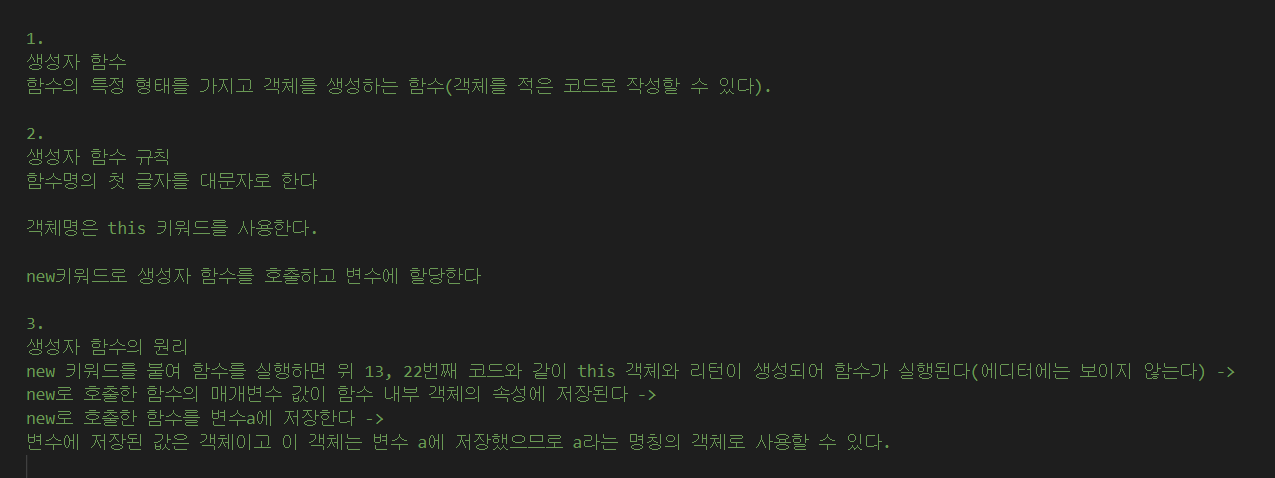
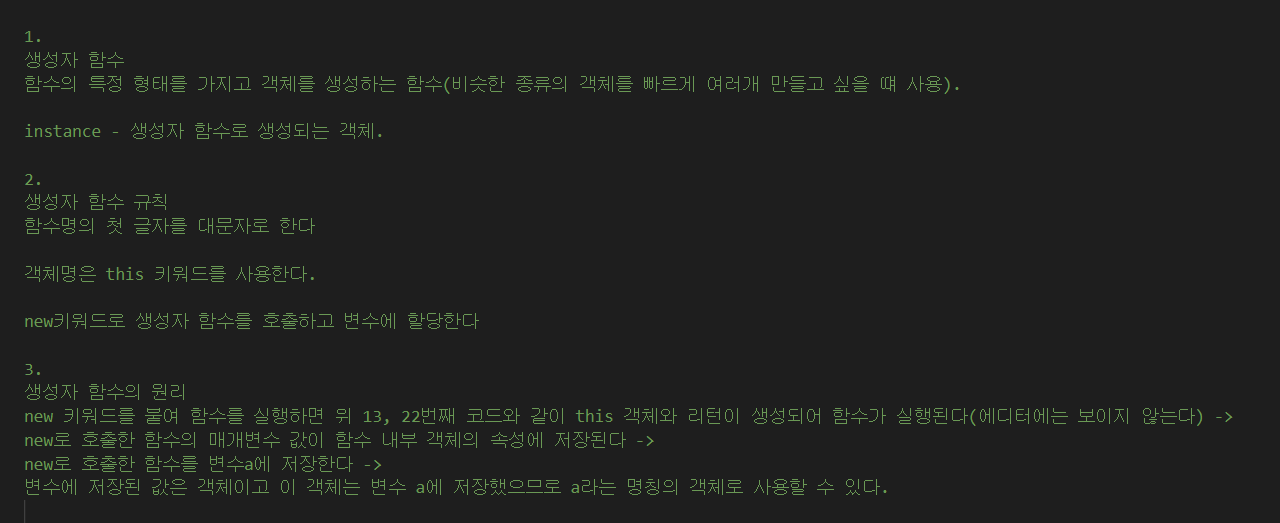
green

diff --git a/정리/05 8.30~9.6/29 클래스(Class)/00 클래스(Class).html b/정리/05 8.30~9.6/29 클래스(Class)/00 클래스(Class).html
@@ -1,0 +1,54 @@
+<!DOCTYPE html>
+
+<html lang="en">
+    <head>
+        <meta charset="UTF-8">
+        <meta http-equiv="X-UA-Compatible" content="IE=edge">
+        <meta name="viewport" content="width=device-width, initial-scale=1.0">
+        <title> 클래스(Class) </title>
+    </head>
+    <body>
+        <script>
+            /////// 생성자 함수 ///////
+            function User1(name, age){
+                // this ={} 
+                this.name = name;
+                this.age = age;
+                this.showName = function(){
+                    console.log(this.name);
+            }  
+                // return this;
+            }
+            let user1 = new User1('Tom', 30);
+            let user2 = new User1('Bob', 28);
+            console.log(user1, user2); console.log("\n");
+            console.log(user1.name); console.log("\n");
+            
+            /////// 클래스(Class) ///////
+            class User2{
+                constructor(name, age){
+                    this.name = name;
+                    this.age = age;
+                }
+                showName(){
+                    console.log(this.name); 
+                }
+            }
+            let userA = new User2("Mike", 32);
+            console.log(userA.age);
+        </script>
+    </body>
+</html>
+
+<!--  
+
+1.
+클래스(Class) - 생성자 함수와 유사한 개념
+특정 형태로 객체를 생성하는 코드(비슷한 종류의 객체를 빠르게 여러개 만들고 싶을 떄 사용).
+
+2.
+클래스(Class)의 원리
+new 키워드를 사용하여 함수를 호출한다 -> 전달된 매개변수에 따라 원본 함수의 코드 내용이 실행되어 객체를 생성한다.
+
+ -->
+

diff --git a/정리/05 8.30~9.6/28 생성자 함수/00 생성자 함수.html b/정리/05 8.30~9.6/28 생성자 함수/00 생성자 함수.html
@@ -40,7 +40,9 @@
 
 1.
 생성자 함수
-함수의 특정 형태를 가지고 객체를 생성하는 함수(객체를 적은 코드로 작성할 수 있다).
+함수의 특정 형태를 가지고 객체를 생성하는 함수(비슷한 종류의 객체를 빠르게 여러개 만들고 싶을 떄 사용).
+
+instance - 생성자 함수로 생성되는 객체.
 
 2.
 생성자 함수 규칙
@@ -59,6 +61,7 @@ new로 호출한 함수를 변수a에 저장한다 ->
 
  -->
 
+ 
 
 
 
